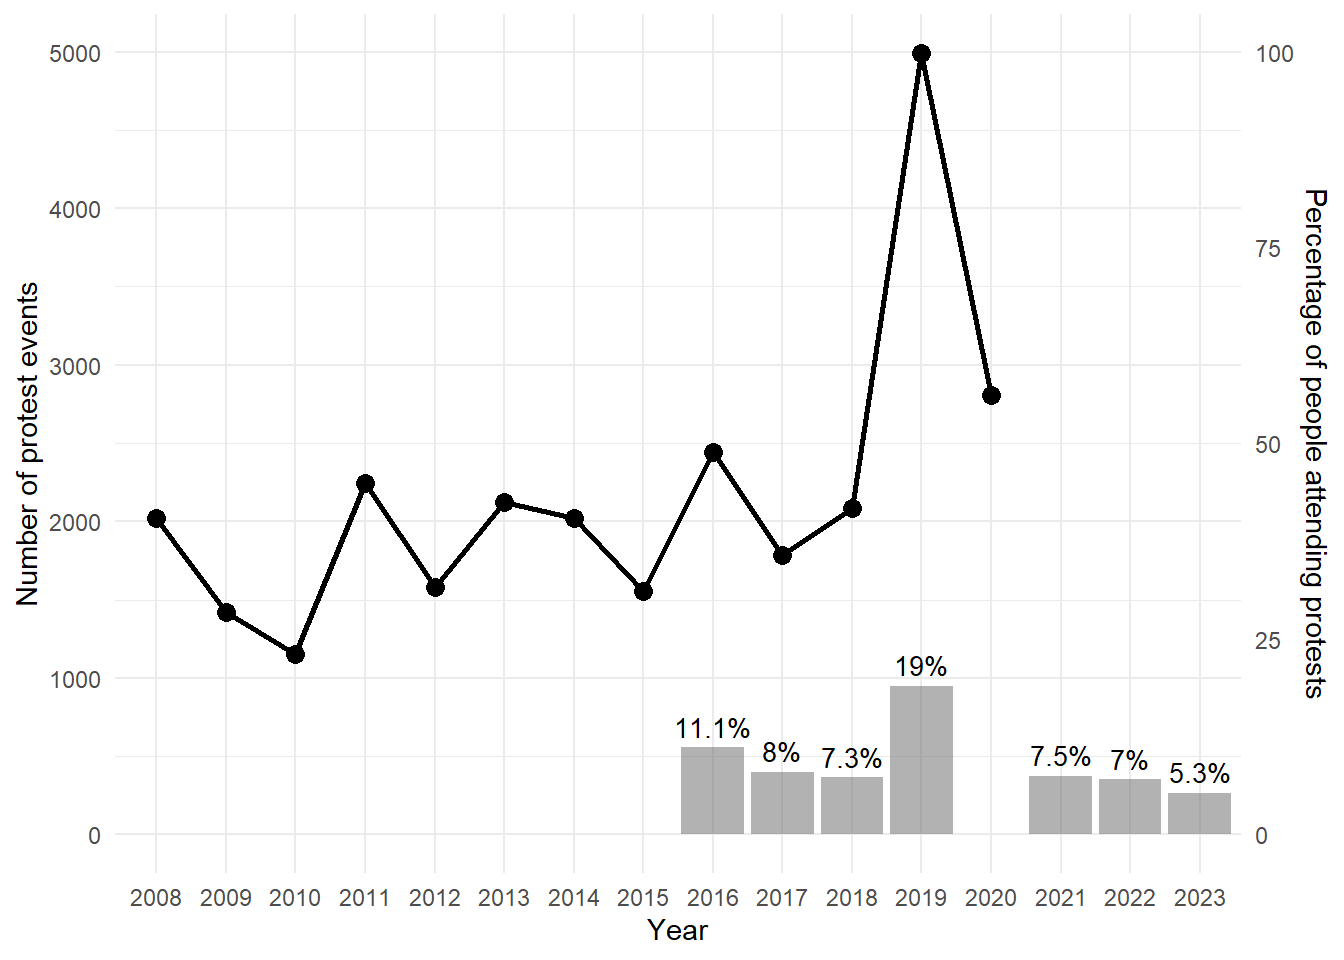
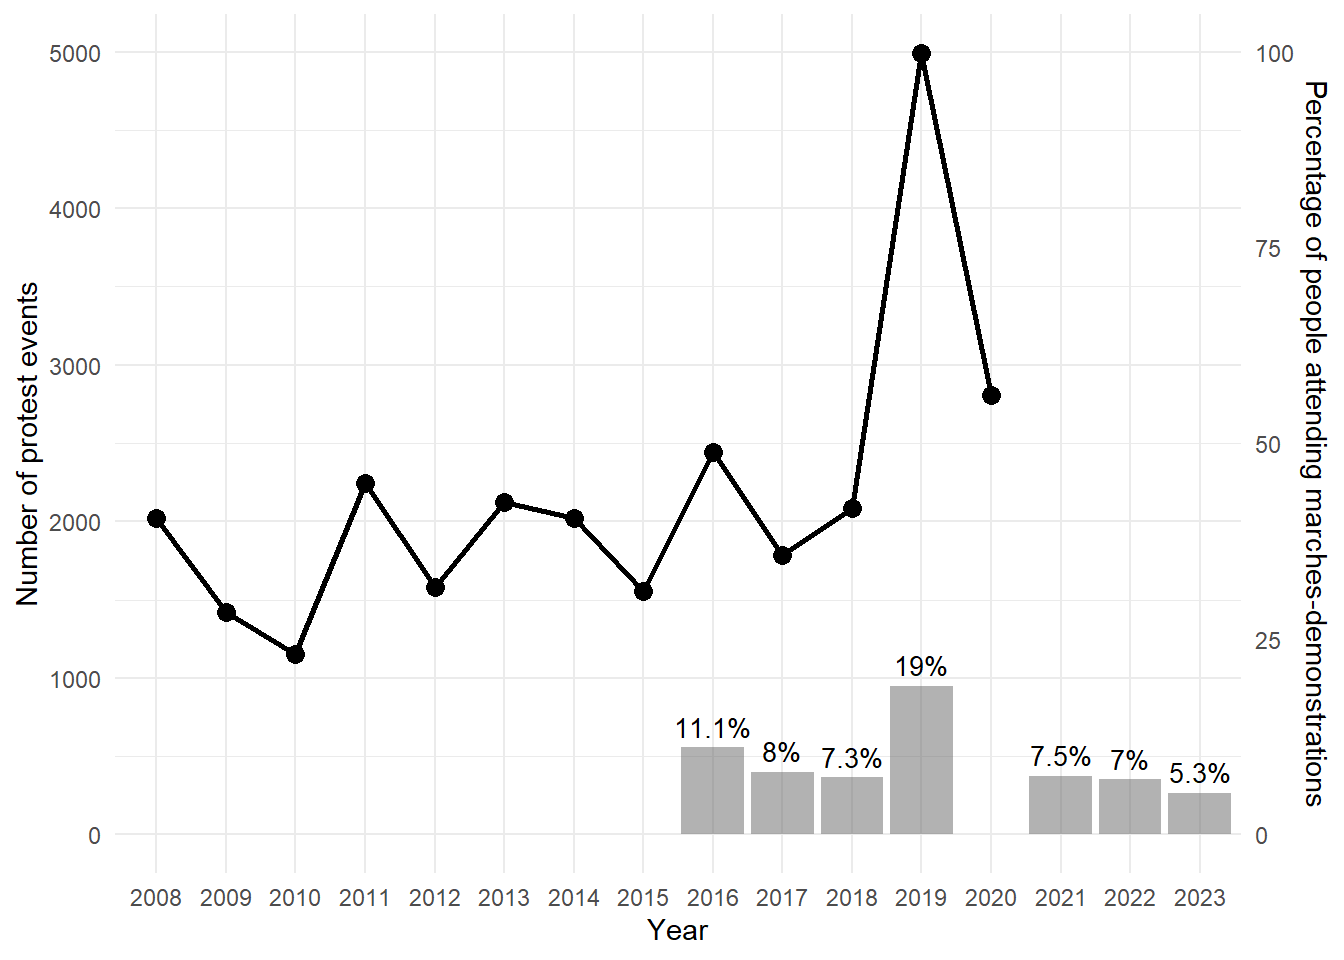
cambios graficos y add descripcion variables

Changed region(s): [[0.9688, 0.0938, 1.0, 0.8438]]

diff --git a/docs/04-graphs.html b/docs/04-graphs.html
@@ -106,6 +106,35 @@ pre > code.sourceCode > span > a:first-child::before { text-decoration: underlin
 <link href="site_libs/lightable-0.0.1/lightable.css" rel="stylesheet">
 
 
+  <script src="https://cdnjs.cloudflare.com/polyfill/v3/polyfill.min.js?features=es6"></script>
+  <script src="https://cdn.jsdelivr.net/npm/mathjax@3/es5/tex-chtml-full.js" type="text/javascript"></script>
+
+<script type="text/javascript">
+const typesetMath = (el) => {
+  if (window.MathJax) {
+    // MathJax Typeset
+    window.MathJax.typeset([el]);
+  } else if (window.katex) {
+    // KaTeX Render
+    var mathElements = el.getElementsByClassName("math");
+    var macros = [];
+    for (var i = 0; i < mathElements.length; i++) {
+      var texText = mathElements[i].firstChild;
+      if (mathElements[i].tagName == "SPAN") {
+        window.katex.render(texText.data, mathElements[i], {
+          displayMode: mathElements[i].classList.contains('display'),
+          throwOnError: false,
+          macros: macros,
+          fleqn: false
+        });
+      }
+    }
+  }
+}
+window.Quarto = {
+  typesetMath
+};
+</script>
 
 </head>
 
@@ -258,7 +287,7 @@ pre > code.sourceCode > span > a:first-child::before { text-decoration: underlin
 <span id="cb2-43"><a href="#cb2-43" aria-hidden="true" tabindex="-1"></a>       <span class="at">y =</span> <span class="st">"Number of protest events"</span>) <span class="sc">+</span></span>
 <span id="cb2-44"><a href="#cb2-44" aria-hidden="true" tabindex="-1"></a>  <span class="fu">theme_minimal</span>() <span class="sc">+</span></span>
 <span id="cb2-45"><a href="#cb2-45" aria-hidden="true" tabindex="-1"></a>  <span class="co"># Secondary axis for the percentage of people attending protests</span></span>
-<span id="cb2-46"><a href="#cb2-46" aria-hidden="true" tabindex="-1"></a>  <span class="fu">scale_y_continuous</span>(<span class="at">sec.axis =</span> <span class="fu">sec_axis</span>(<span class="sc">~</span>.<span class="sc">/</span><span class="dv">50</span>, <span class="at">name =</span> <span class="st">"Percentage of people attending protests"</span>))</span></code><button title="Copy to Clipboard" class="code-copy-button"><i class="bi"></i></button></pre></div>
+<span id="cb2-46"><a href="#cb2-46" aria-hidden="true" tabindex="-1"></a>  <span class="fu">scale_y_continuous</span>(<span class="at">sec.axis =</span> <span class="fu">sec_axis</span>(<span class="sc">~</span>.<span class="sc">/</span><span class="dv">50</span>, <span class="at">name =</span> <span class="st">"Percentage of people attending marches-demonstrations"</span>))</span></code><button title="Copy to Clipboard" class="code-copy-button"><i class="bi"></i></button></pre></div>
 <div class="cell-output cell-output-stderr">
 <pre><code>Scale for y is already present.
 Adding another scale for y, which will replace the existing scale.</code></pre>
@@ -777,9 +806,26 @@ Workers           | 4889 | 42.03 |   47.27 | 100.00
 </div>
 </div>
 </div>
-
-
 </section>
+</section>
+<section id="descripcion-variables" class="level2" data-number="7.2">
+<h2 data-number="7.2" class="anchored" data-anchor-id="descripcion-variables"><span class="header-section-number">7.2</span> Descripcion variables</h2>
+<p>Perception of economic inequality: The main independent variable refers to the perception of economic inequality, measured through the perceived wage gap (Jasso, 1980; Castillo, 2009; Hadler, 2005). This measure is derived from the salary gap between the perceived salaries of jobs at opposite ends of the occupational hierarchy. Specifically, it relies on the division between the perceived salary of a large-company president and that of an unskilled worker (Castillo, 2011). Higher values of this term indicate a greater perception of economic inequality between occupations located at the extremes of the status continuum. This measure includes a logarithmic term to adjust income magnitudes (usually fewer cases with high income):</p>
+<p><span class="math display">\[
+\text{perceived wage gap} = \log_{10}\left(\frac{\text{perceived salary of a large-company president}}{\text{perceived salary of an unskilled worker}}\right)
+\]</span></p>
+<p>Justification of economic inequality: This construct is measured as the just earnings gap, an approach to measuring the justification of economic inequality based on earning differences considered just between high and low status occupations (Castillo, 2012). Similarly to economic inequality perception, this indicator relies on the logarithmic ratio between the just salary of a large-company president and that of an unskilled worker. Higher values of this term indicate a greater justification of economic inequality.</p>
+<p>Jasso, G. (1980). A New Theory of Distributive Justice. American Sociological Review, 45(1), 3. https://doi.org/10.2307/2095239</p>
+<p>Castillo, J. C. (2009). ¿Cuál es la Brecha Salarial Justa? Opinión Pública y Legitimación de la Desigualdad Económica en Chile. Estudios Públicos, 113, 237-266.</p>
+<p>Castillo, J. C. (2011). Legitimacy of Inequality in a Highly Unequal Context: Evidence from the Chilean Case. Social Justice Research, 24(4), 314-340. https://doi.org/10.1007/s11211-011-0144-5</p>
+<p>Castillo, J. C. (2012). La legitimidad de las desigualdades salariales. Una aproximación multidimensional. Revista Internacional de Sociología, 70(3), 533-560. https://doi.org/10.3989/ris.2010.11.22</p>
+<p>Hadler, M. (2005). Why Do People Accept Different Income Ratios?: A Multi-level Comparison of Thirty Countries. Acta Sociologica, 48(2), 131-154. https://doi.org/10.1177/0001699305053768</p>
+</section>
+<section id="ejemplificación-en-dólares" class="level2" data-number="7.3">
+<h2 data-number="7.3" class="anchored" data-anchor-id="ejemplificación-en-dólares"><span class="header-section-number">7.3</span> Ejemplificación en dólares</h2>
+<p>Para ilustrar esta relación, la Figura 4 muestra el efecto marginal promedio de la ubicación de clase sobre la brecha salarial justa. Esta figura muestra, por ejemplo, que un trabajador autónomo informal y un trabajador no directivo creen que una brecha salarial justa debería ser de log (1,8) y log (1,9), equivalentes a USD<span class="math inline">\(1890\)</span> y USD<span class="math inline">\(3660\)</span>, respectivamente. Por otro lado, un directivo experto considera que una brecha salarial justa debería ser de log (2,2), equivalente a USD<span class="math inline">\(5600\)</span>. Esta diferencia es estadísticamente significativa (valor p &lt; 0,001) y en la dirección hipotética, lo que indica que H1 debería aceptarse.</p>
+
+
 </section>
 </section>
 </div>
